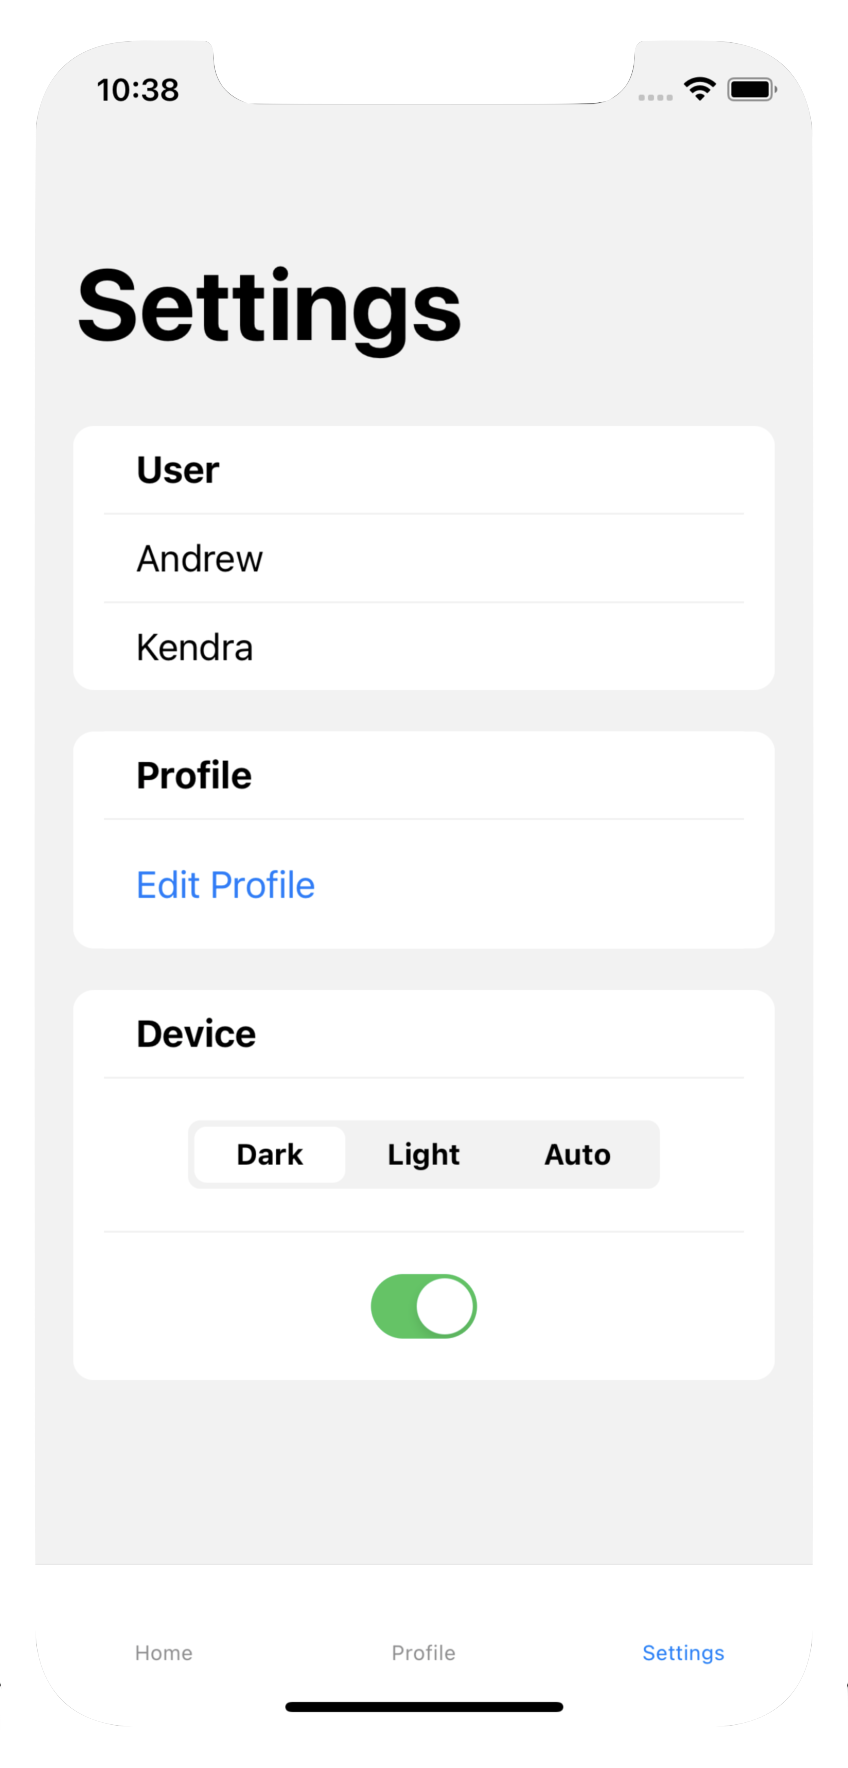
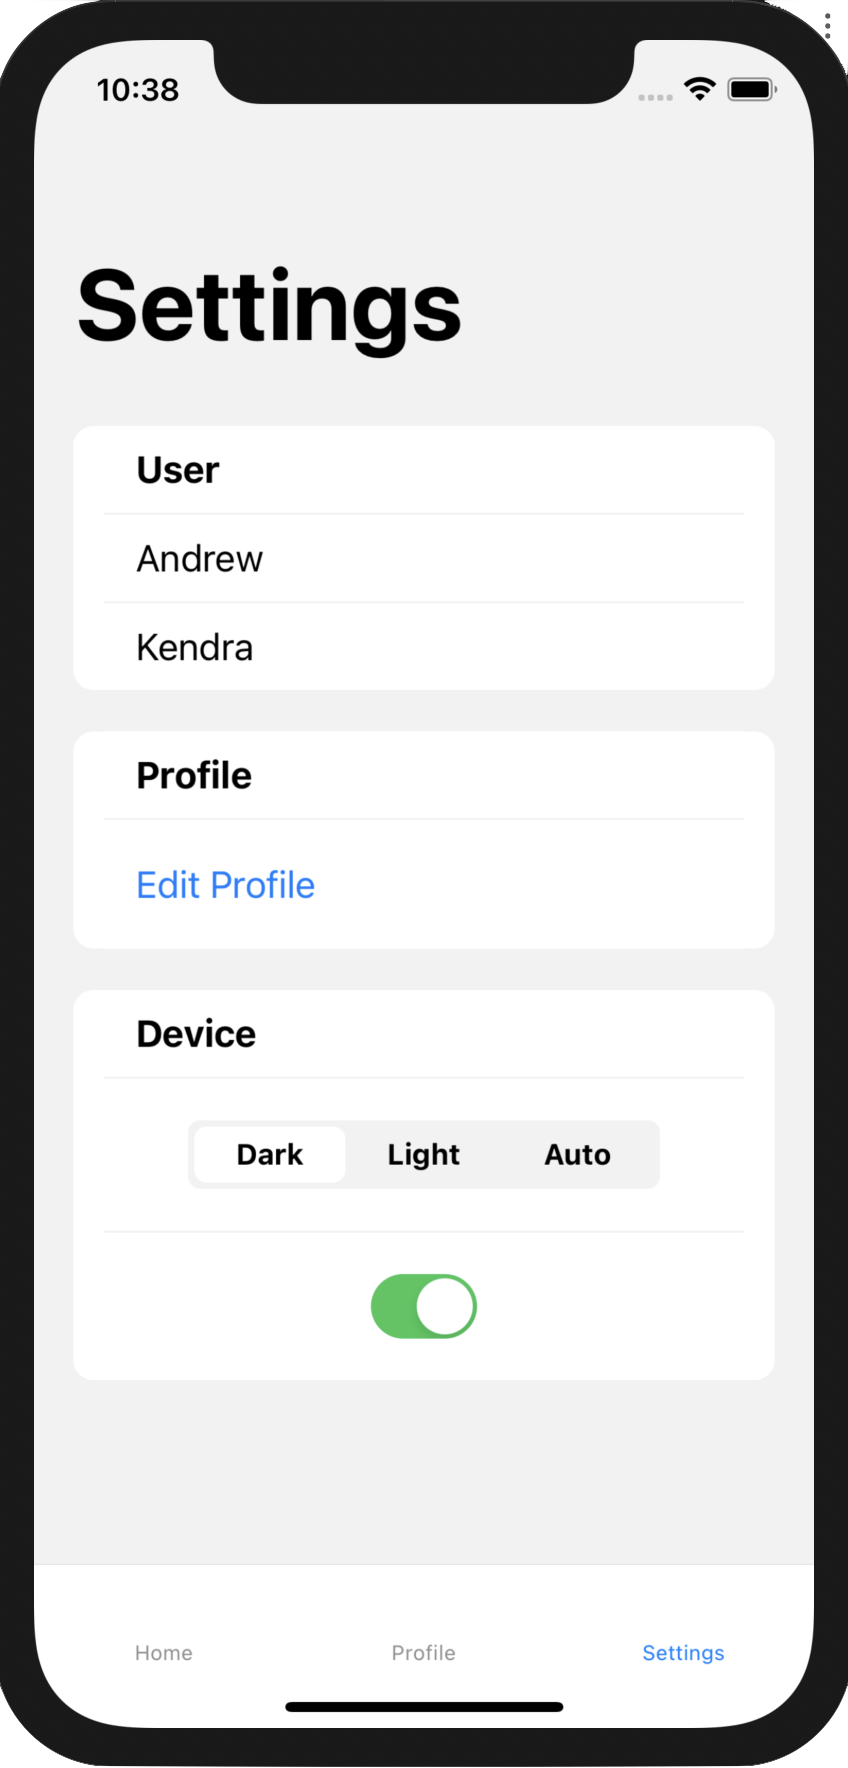
Update readme

Changed region(s): [[0.0, 0.0, 1.0, 1.0]]

diff --git a/README.md b/README.md
@@ -2,7 +2,7 @@
 
 :exclamation::exclamation: This project is new and is currently being worked on. Most views aren't complete but will be in time! :exclamation::exclamation:
 
-<img src="https://github.com/andrew-levy/swiftui-react-native/blob/master/settings.jpg?raw=true" width="200">
+<img src="https://github.com/andrew-levy/swiftui-react-native/blob/master/assets/settings.png?raw=true" width="300">
 
 ## What is it?
 
